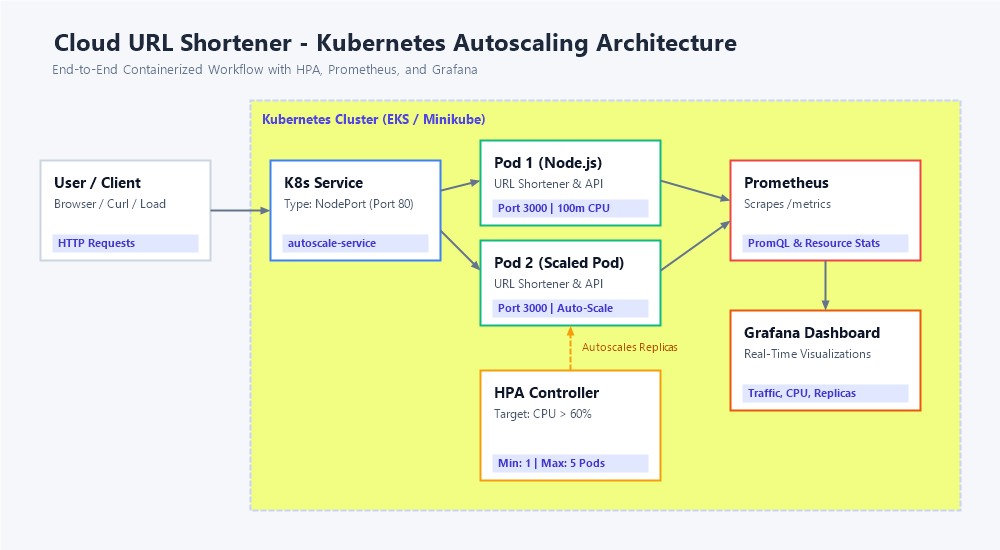
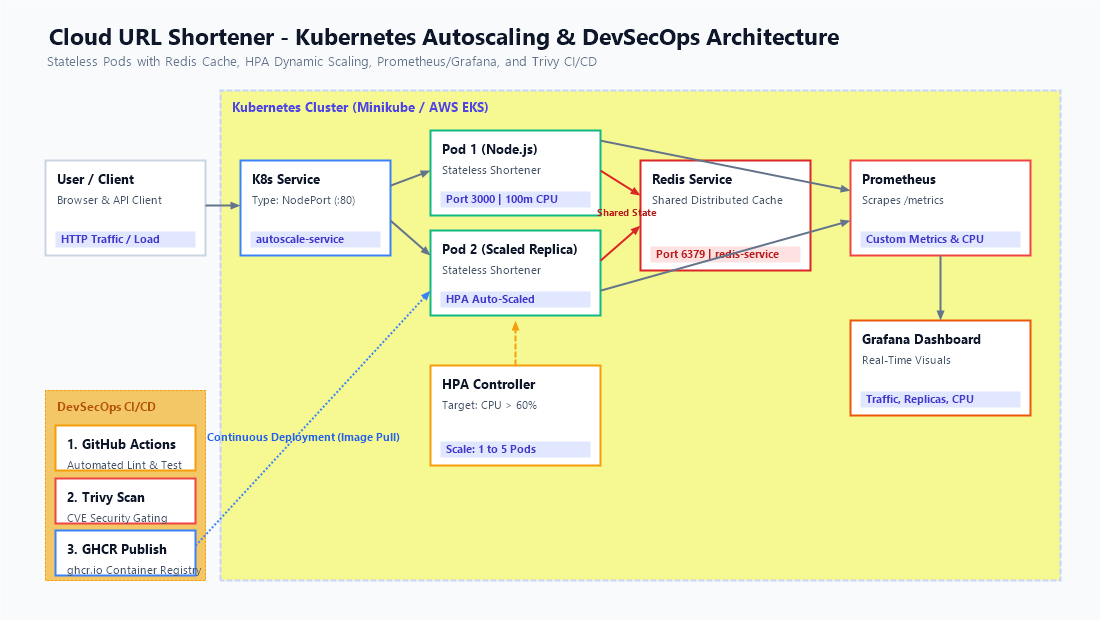
feat(devsecops): add Trivy container vulnerability scanning, GHCR publishing, and interview guide

diff --git a/README.md b/README.md
@@ -1,12 +1,12 @@
-# 🚀 Cloud URL Shortener with Kubernetes Autoscaling
+# 🚀 Cloud-Native URL Shortener with Kubernetes Autoscaling & DevSecOps
 
-A production-style, cloud-native URL Shortener web application designed to demonstrate cloud architecture best practices:
+A production-grade, cloud-native URL Shortener application demonstrating modern DevOps and Cloud architecture:
 
-- ⚡ **Kubernetes Horizontal Pod Autoscaler (HPA)** for dynamic scaling based on real CPU load
-- 📊 **Prometheus & Grafana Monitoring** for real-time observability and resource tracking
-- 🐳 **Docker Containerization** with multi-layer optimization
-- ☸ **Kubernetes Orchestration** (Minikube / AWS EKS) with liveness & readiness health probes
-- 🔄 **Automated CI/CD Pipeline** using GitHub Actions
+- ⚡ **Kubernetes Horizontal Pod Autoscaler (HPA)** for dynamic replica scaling based on CPU utilization
+- 🗄 **Stateless Microservice Architecture** backed by a **Redis distributed cache** for multi-pod consistency
+- 🛡 **DevSecOps CI/CD Pipeline** using GitHub Actions with **Trivy container security scanning** and automated publishing to **GHCR (GitHub Container Registry)**
+- 📊 **Prometheus & Grafana Monitoring** with custom application metrics (`prom-client`)
+- 🐳 **Docker Multi-Layer Containerization** and **Docker Compose** local stack
 
 ---
 
@@ -14,29 +14,43 @@ A production-style, cloud-native URL Shortener web application designed to demon
 
 ![Architecture](architecture.png)
 
-### Architecture Workflow
+### System Flow
 ```mermaid
-flowchart LR
+flowchart TD
     Client["User / Client (Browser / API)"] --> Service["K8s Service (NodePort :80)"]
-    Service --> Pod1["Pod 1 (Node.js App :3000)"]
-    Service -.-> Pod2["Pod 2 (Scaled Replica)"]
-    HPA["HPA Controller (CPU > 60%)"] ==>|Auto-Scales| Pod2
-    Pod1 -->|/metrics| Prom["Prometheus"]
-    Pod2 -->|/metrics| Prom
-    Prom --> Grafana["Grafana Dashboard"]
+    Service --> Pod1["Pod 1 (Stateless Node.js :3000)"]
+    Service -.-> Pod2["Pod 2 (HPA Auto-Scaled Replica)"]
+    
+    subgraph DataTier["Distributed State Layer"]
+        Pod1 <-->|Read / Write| Redis["Redis Cluster (redis-service :6379)"]
+        Pod2 <-->|Read / Write| Redis
+    end
+
+    subgraph ScalingObservability["Autoscaling & Monitoring"]
+        HPA["HPA Controller (Target CPU > 60%)"] ==>|Scales Replicas 1-5| Pod2
+        Pod1 -->|/metrics| Prom["Prometheus Scraper"]
+        Pod2 -->|/metrics| Prom
+        Prom --> Grafana["Grafana Dashboard"]
+    end
+
+    subgraph DevSecOps["CI/CD Pipeline (GitHub Actions)"]
+        Push[Git Push] --> Lint[1. Lint & Syntax]
+        Lint --> Trivy[2. Trivy Security Scan]
+        Trivy --> GHCR[3. Build & Publish to GHCR]
+        GHCR --> K8sVal[4. K8s Manifest Validation]
+    end
 ```
 
 ---
 
 ## 🧰 Tech Stack
 
-- **Frontend**: HTML5, CSS3, JavaScript (Fetch API, responsive UI)
-- **Backend**: Node.js, Express.js, Crypto
-- **Containerization**: Docker
-- **Orchestration**: Kubernetes (Deployments, Services, HPA)
-- **Monitoring**: Prometheus, Grafana, `prom-client`
-- **CI/CD**: GitHub Actions
-- **Cloud / Cluster**: AWS EKS / Minikube
+- **Application**: Node.js, Express.js, Crypto, HTML5/CSS3/JavaScript
+- **Caching & State**: Redis (via `ioredis`), In-Memory fallback
+- **Containerization**: Docker, Docker Compose
+- **Orchestration**: Kubernetes (Deployments, Services, HPA) on Minikube / AWS EKS
+- **DevSecOps & CI/CD**: GitHub Actions, Trivy (Aqua Security), GHCR
+- **Observability**: Prometheus, Grafana, `prom-client`
 
 ---
 
@@ -45,107 +59,78 @@ flowchart LR
 | Method | Endpoint | Description |
 | :--- | :--- | :--- |
 | `GET` | `/` | Web frontend UI |
-| `GET` | `/health` | Kubernetes Liveness & Readiness health probe (returns `UP`) |
+| `GET` | `/health` | Kubernetes Liveness & Readiness probe (returns status & storage engine) |
 | `GET` | `/metrics` | Prometheus metrics scrape endpoint |
 | `POST` | `/shorten` | Shortens a URL (JSON body: `{"url": "https://..."}`) |
-| `GET` | `/:code` | Redirects short URL to original destination |
-| `GET` | `/stats/all` | Returns statistics on all shortened links and current pod name |
-| `GET` | `/load` | CPU-intensive computation simulating high traffic to test HPA |
+| `GET` | `/:code` | Redirects short URL to destination |
+| `GET` | `/stats/all` | Returns stats on all URLs, storage backend (Redis/Memory), and serving pod |
+| `GET` | `/load` | CPU-intensive calculation simulating traffic spikes to trigger HPA |
 
 ---
 
-## 🚀 Getting Started
+## 🚀 Running the Project
 
-### 1. Run Locally (Node.js)
-
+### 1. Local Development (Node.js)
 ```bash
-# Navigate to the app directory
 cd app
-
-# Install dependencies
 npm install
-
-# Start the application
 npm start
 ```
-The application will run at `http://localhost:3000`.
+*App will start on `http://localhost:3000` (defaults to memory store if Redis is absent).*
 
----
-
-### 2. Run with Docker
-
-```bash
-# Build Docker image
-docker build -t autoscale-app -f docker/Dockerfile .
-
-# Run Docker container
-docker run -d -p 3000:3000 --name autoscale-app autoscale-app
-```
-
-Or run the full stack with **Docker Compose** (including Prometheus):
+### 2. Full Local Stack with Docker Compose (App + Redis + Prometheus)
 ```bash
 docker-compose up --build
 ```
-- Web Application: `http://localhost:3000`
-- Prometheus Server: `http://localhost:9090`
+- App UI: `http://localhost:3000`
+- Prometheus: `http://localhost:9090`
+- Redis: `localhost:6379`
 
----
-
-## ☸ Deploying to Kubernetes
-
-### 1. Apply Kubernetes Manifests
-
+### 3. Deploying to Kubernetes (Minikube / EKS)
 ```bash
-# Deploy application pods
-kubectl apply -f k8s/deployment.yaml
+# 1. Deploy Redis service
+kubectl apply -f k8s/redis.yaml
 
-# Expose through Service
+# 2. Deploy URL shortener app & NodePort service
+kubectl apply -f k8s/deployment.yaml
 kubectl apply -f k8s/service.yaml
 
-# Enable Horizontal Pod Autoscaler
+# 3. Enable Horizontal Pod Autoscaler
 kubectl apply -f k8s/hpa.yaml
 ```
 
-### 2. Verify Deployment
-
-```bash
-kubectl get pods -l app=autoscale
-kubectl get svc autoscale-service
-kubectl get hpa autoscale-hpa
-```
-
-If using **Minikube**, get the service URL:
-```bash
-minikube service autoscale-service
-```
-
 ---
 
-## ⚡ Testing Auto-Scaling (HPA)
+## ⚡ Testing Autoscaling (HPA)
 
-1. Make sure `metrics-server` is enabled in your cluster:
+1. Enable `metrics-server` on your cluster:
    ```bash
    minikube addons enable metrics-server
    ```
-2. Monitor HPA in real time:
+2. Watch HPA status:
    ```bash
    kubectl get hpa autoscale-hpa --watch
    ```
-3. Generate load using the built-in UI button or via terminal:
+3. Generate load via the UI button or terminal:
    ```bash
-   # Run a continuous load generator loop
    while true; do curl -s http://<SERVICE_IP>/load > /dev/null; done
    ```
-4. Observe the CPU utilization cross **60%**, triggering HPA to automatically scale up pods from 1 to 2+ replicas! Once the load ceases, HPA smoothly scales back down to `minReplicas`.
+4. As CPU exceeds 60%, HPA will dynamically spin up new pods (1 ➔ 2 ➔ up to 5 replicas). Because **Redis** stores all URLs, any pod can handle redirects seamlessly!
 
 ---
 
-## 📊 Prometheus & Grafana Monitoring
+## 🎓 Placement & Interview Cheatsheet
 
-Detailed setup instructions and PromQL queries are provided in [`monitoring/prometheus-grafana.md`](monitoring/prometheus-grafana.md).
+### Q1: Why use Redis when pods already run the application?
+> **Answer**: In a Kubernetes cluster with autoscaling, traffic is load-balanced across multiple pod replicas. If state is kept in pod memory, Pod A will not know about URLs created by Pod B. By externalizing state to Redis, our Node.js microservices remain completely **stateless**, enabling true horizontal scaling without data fragmentation.
+
+### Q2: How does Kubernetes HPA work under the hood?
+> **Answer**: The Horizontal Pod Autoscaler queries the Kubernetes Metrics API (provided by `metrics-server`) periodically (every 15s). It evaluates `desiredReplicas = ceil[currentReplicas * (currentMetric / targetMetric)]`. When average CPU crosses 60%, HPA issues an update to the Deployment controller to increase pod replicas.
+
+### Q3: What is the DevSecOps strategy in this project?
+> **Answer**: We integrated **Trivy** directly into our GitHub Actions pipeline to scan the container image layers for CVEs (Common Vulnerabilities and Exposures) with High and Critical severities before publishing the container to GHCR, enforcing automated security gating before deployment.
 
 ---
 
 ## 📄 License
-
-This project is open-source and available under the [MIT License](LICENSE).
+This project is open-source under the [MIT License](LICENSE).
